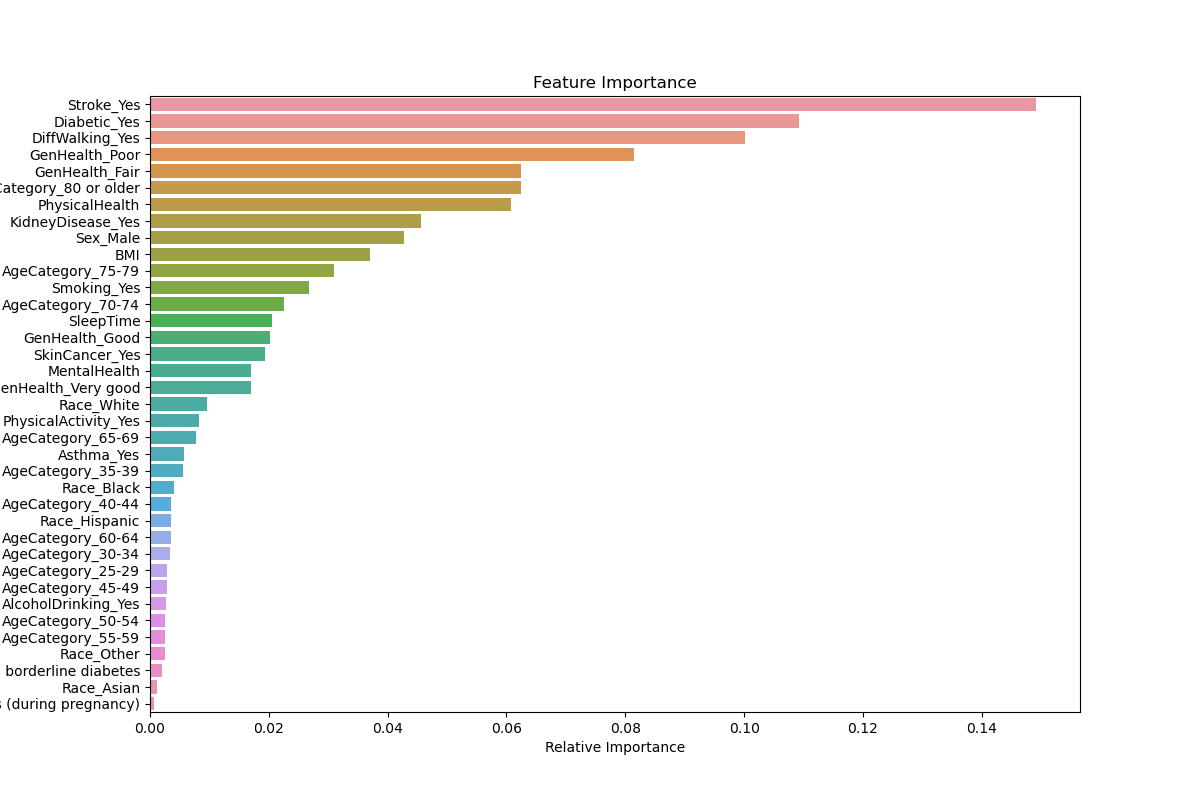
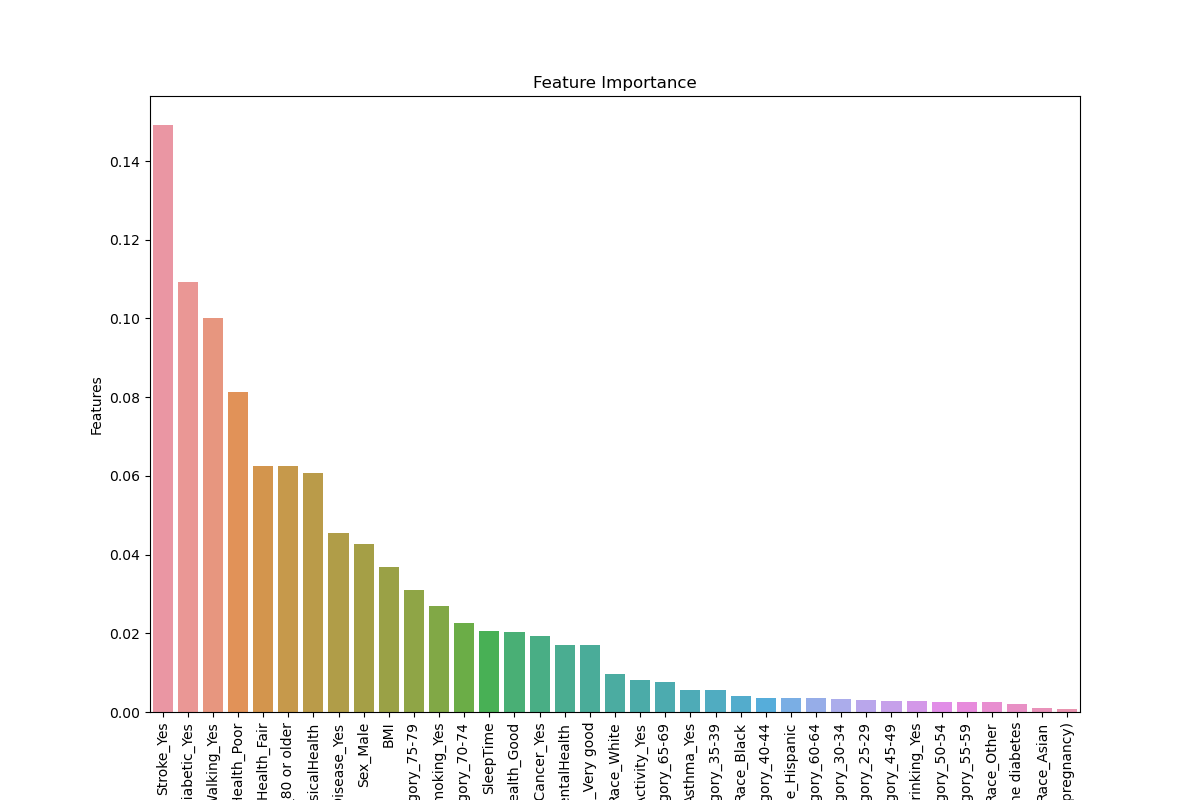
Identical ROC curve layout across models

Changed region(s): [[0.0, 0.125, 0.8942, 1.0]]

diff --git a/RF_Ilario/code/14-project.py b/RF_Ilario/code/14-project.py
@@ -68,8 +68,8 @@ print("Classification Report:\n", report)
 fpr, tpr, _ = roc_curve(y_test, y_pred_prob)
 roc_auc = roc_auc_score(y_test, y_pred_prob)
 plt.figure(figsize=(8, 6))
-plt.plot(fpr, tpr, color='darkorange', label=f'ROC curve (area = {roc_auc:.2f})')
-plt.plot([0, 1], [0, 1], color='navy', linestyle='--')
+plt.plot(fpr, tpr, color='b', label=f'ROC curve (area = {roc_auc:.2f})')
+plt.plot([0, 1], [0, 1], color='r', linestyle='--')
 plt.xlim([0.0 , 1.0])
 plt.ylim([0.0 , 1.05])
 plt.xlabel('False Positive Rate')
@@ -82,10 +82,11 @@ plt.savefig("../output/Roc_Curve.png")
 feature_importance = best_rf.feature_importances_
 indices = np.argsort(feature_importance)[::-1]
 plt.figure(figsize=(12, 8))
-sns.barplot(x=feature_importance[indices], y=X_train.columns[indices])
+sns.barplot(x=X_train.columns[indices], y=feature_importance[indices])
 plt.title('Feature Importance')
 plt.xlabel('Relative Importance')
 plt.ylabel('Features')
+plt.tick_params(axis='x', rotation=90)
 plt.savefig("../output/Feauture_Importance.png")
 
 # Confusion Matrix

diff --git a/KNN_Matilde/code/KNN.py b/KNN_Matilde/code/KNN.py
@@ -84,8 +84,8 @@ roc_auc_best = auc(fpr_best, tpr_best)
 
 
 plt.figure(figsize=(8, 6))
-plt.plot(fpr_best, tpr_best, color='darkorange', lw=2, label='ROC curve (area = %0.2f)' % roc_auc_best)
-plt.plot([0, 1], [0, 1], color='navy', linestyle='--')
+plt.plot(fpr_best, tpr_best, color='b', lw=2, label='ROC curve (area = %0.2f)' % roc_auc_best)
+plt.plot([0, 1], [0, 1], color='r', linestyle='--')
 plt.xlim([0.0, 1.0])
 plt.ylim([0.0, 1.05])
 plt.xlabel('False Positive Rate')
